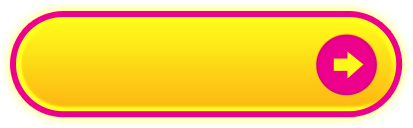
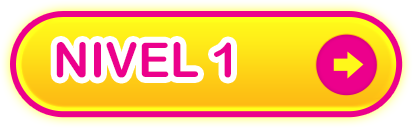
integration

Changed region(s): [[0.1162, 0.2812, 0.4939, 0.6562], [0.4939, 0.2812, 0.5811, 0.6562]]

diff --git a/src/index.html b/src/index.html
@@ -31,25 +31,18 @@
                         <div class="div-btn-float">
                             <img class="img-responsive" src="assets/img/btn-level-1.png" alt="">
                         </div>
-                        <div class="div-text-float">
-                            <a href="" class="btn-level btn-level-1 ">NIVEL 1</a>
-                        </div>
                     </div>
                     <div class="row">
                         <div class="div-btn-float">
                             <img class="img-responsive" src="assets/img/btn-level-2.png" alt="">
                         </div>
-                        <div class="div-text-float">
-                            <a href="" class="btn-level btn-level-2 ">NIVEL 2</a>
-                        </div>
+
                     </div>
                     <div class="row">
                         <div class="div-btn-float">
                             <img  class="img-responsive" src="assets/img/btn-level-3.png" alt="">
                         </div>
-                        <div class="div-text-float">
-                            <a href="" class="btn-level btn-level-3 ">NIVEL 3</a>
-                        </div>                            
+                           
                         
                     </div>                        
                 </div>

diff --git a/src/assets/css/style.css b/src/assets/css/style.css
@@ -317,12 +317,10 @@ padding: 0 0 0 12%;
   /*  background: transparent url(../img/btn-level-3.png) no-repeat center center;
 */}
 .div-btn-float{
-    position: absolute;
-    width: 100%;
+    /*position: absolute;
+    width: 100%;*/
 }
-.div-text-float{
-    position: relative;
-}
+
 @media (max-width: 767px) {
    .space-parrot {
       /*display: none;*/
